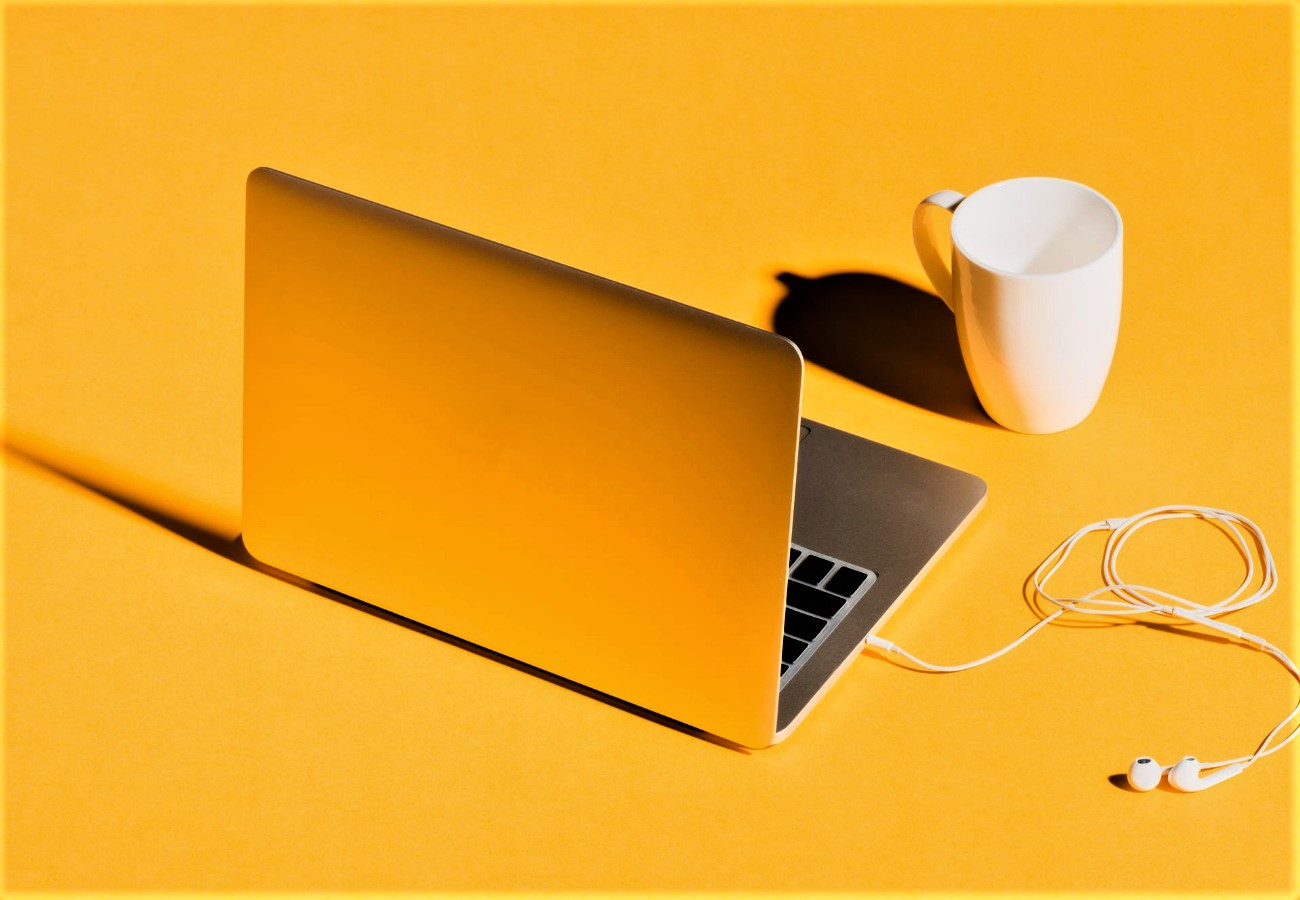
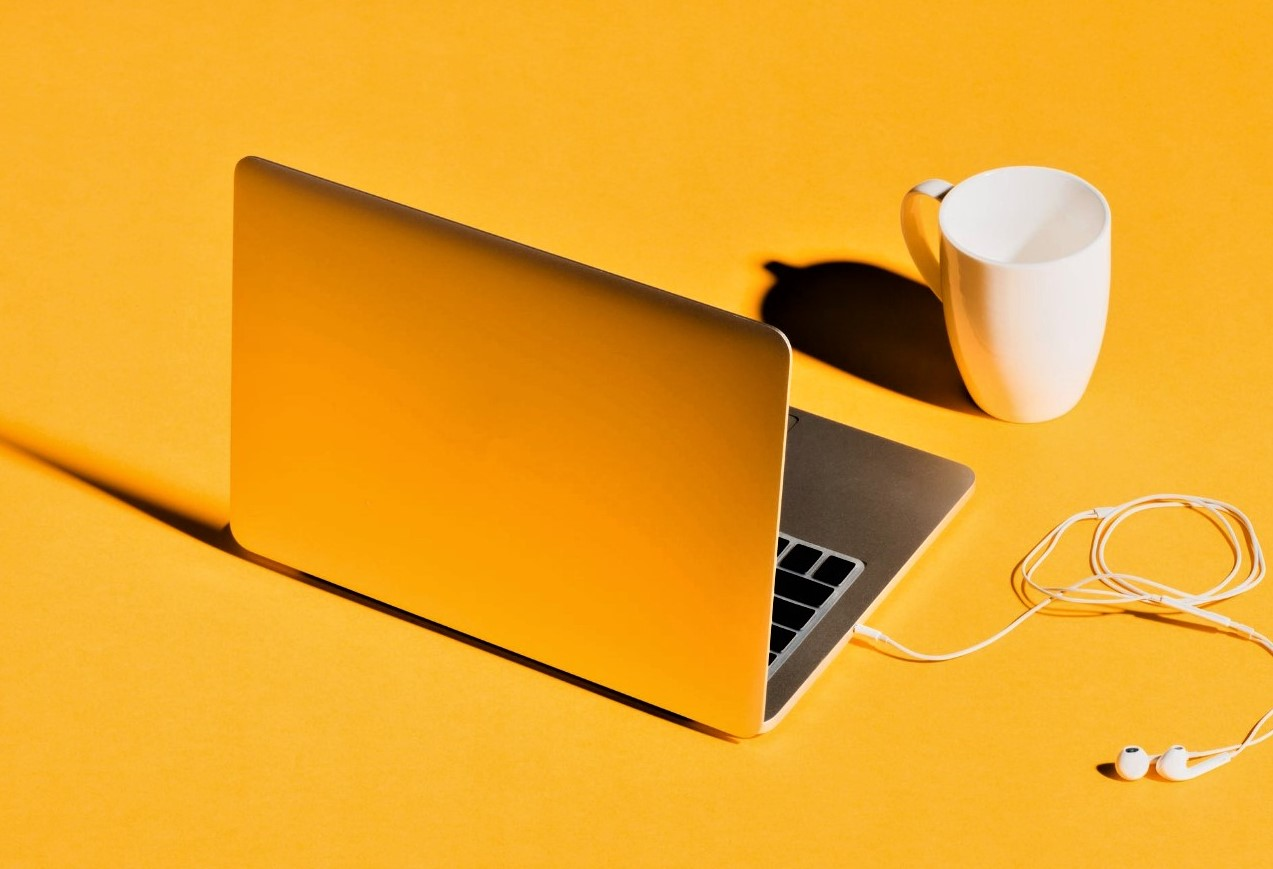
Styled Contact section

diff --git a/src/components/Contact/Contact.js b/src/components/Contact/Contact.js
@@ -1,12 +1,65 @@
 import React, { Component } from 'react';
 import classes from './Contact.module.css';
+import img from '../../assets/images/contact-img.jpeg';
 
 class Home extends Component {
   render() {
     return (
-      <div className={classes.Contact} id='contact'>
-        <h1>Contact</h1>
-      </div>
+      <section className={classes.Contact} id='contact'>
+        <div className={classes.ContactImg}>
+          <img src={img} alt='' />
+        </div>
+        <div className={classes.ContactHeader}>
+          <h1>contact.</h1>
+        </div>
+        <div className={classes.ContactText}>
+          <p>
+            Here is how you can reach me: <br /> izabkru88@gmail.com <br /> +44
+            7868197008
+          </p>
+        </div>
+        <div className={classes.ContactBox}>
+          <div className={classes.ContactQuestion}>
+            <p>Any questions?</p>
+          </div>
+          <form method='POST'>
+            <div className={classes.TextFields}>
+              <input
+                type='text'
+                className={(classes.TextInput, classes.NameInput)}
+                placeholder='Name'
+                name='name'
+              />
+              <input
+                type='text'
+                className={(classes.TextInput, classes.SubjectInput)}
+                placeholder='Subject'
+                name='subject'
+              />
+              <input
+                type='email'
+                className={(classes.TextInput, classes.EmailInput)}
+                placeholder='Email Address'
+                name='email'
+              />
+              <input
+                type='text'
+                className={(classes.TextInput, classes.PhoneInput)}
+                placeholder='Phone Number'
+                name='phone'
+              />
+              <textarea
+                className={(classes.TextInput, classes.MessageInput)}
+                placeholder='Enter Message'
+                name='message'
+              ></textarea>
+            </div>
+            <button className={classes.ContactBtn} type='submit'>
+              Submit
+            </button>
+          </form>
+        </div>
+      </section>
     );
   }
 }

diff --git a/src/components/Projects/Projects.js b/src/components/Projects/Projects.js
@@ -1,6 +1,9 @@
 import React, { useEffect, useState } from 'react';
 import classes from './Projects.module.css';
 import sanityClient from '../../client.js';
+import img2 from '../../assets/images/img2.jpg';
+import img3 from '../../assets/images/img3.jpg';
+import img5 from '../../assets/images/img5.jpg';
 
 function Project() {
   const [projectData, setProjectData] = useState(null);
@@ -74,6 +77,38 @@ function Project() {
                 </div>
               </div>
             ))}
+          <div className={classes.Item}>
+            <div className={classes.ItemImage}>
+              <img src={img2} alt='' />
+            </div>
+            <div className={classes.ItemText}>
+              <div className={classes.TextWrap}>
+                <h3 className={classes.TextTitle}>UI / UX</h3>
+              </div>
+            </div>
+          </div>
+
+          <div className={classes.Item}>
+            <div className={classes.ItemImage}>
+              <img src={img3} alt='' />
+            </div>
+            <div className={classes.ItemText}>
+              <div className={classes.TextWrap}>
+                <h3 className={classes.TextTitle}> WEB DESIGN</h3>
+              </div>
+            </div>
+          </div>
+
+          <div className={classes.Item}>
+            <div className={classes.ItemImage}>
+              <img src={img5} alt='' />
+            </div>
+            <div className={classes.ItemText}>
+              <div className={classes.TextWrap}>
+                <h3 className={classes.TextTitle}>CREATIVITY</h3>
+              </div>
+            </div>
+          </div>
         </section>
       </section>
     </main>

diff --git a/src/components/Contact/Contact.module.css b/src/components/Contact/Contact.module.css
@@ -1,3 +1,99 @@
 .Contact {
   height: 100vh;
+  position: relative;
+  margin: auto;
+  max-width: 1300px;
+  font-family: 'Montserrat', sans-serif;
+}
+
+.ContactImg {
+  height: 100%;
+  width: 100%;
+}
+
+.ContactHeader {
+  position: absolute;
+  letter-spacing: 1px;
+  left: -19%;
+  bottom: 31%;
+}
+
+.ContactHeader h1 {
+  transform: rotate(-90deg);
+  font-family: 'Montserrat', sans-serif;
+  font-size: 160px;
+  color: rgb(253, 187, 45, 0.1);
+}
+
+.ContactText {
+  position: absolute;
+  bottom: 41%;
+  color: #fff;
+  left: 13%;
+  letter-spacing: 1px;
+  width: 440px;
+  height: 300px;
+  line-height: 90px;
+  font-size: 26px;
+}
+
+.ContactBox {
+  left: 50%;
+  bottom: 35%;
+  position: absolute;
+}
+
+.ContactQuestion {
+  font-family: 'Indie Flower', cursive;
+  color: #fff;
+  font-size: 40px;
+  display: flex;
+  justify-content: center;
+  letter-spacing: 5px;
+  margin: 20px 0;
+}
+
+.TextFields {
+  display: grid;
+  grid-template-areas:
+    'name email'
+    'subject phone'
+    'message message';
+  grid-gap: 40px;
+  width: 560px;
+  height: 300px;
+}
+
+.NameInput {
+  grid-area: name;
+}
+.SubjectInput {
+  grid-area: subject;
+}
+
+.PhoneInput {
+  grid-area: phone;
+}
+.MessageInput {
+  grid-area: message;
+  height: 100px;
+}
+
+.TextInput {
+  padding: 0.5rem 1rem;
+}
+
+.ContactBtn {
+  width: 100%;
+  height: 45px;
+  background-color: #ffbe2d;
+  cursor: pointer;
+  font-family: 'Montserrat', sans-serif;
+  letter-spacing: 2px;
+  text-transform: uppercase;
+  font-weight: bold;
+}
+
+.ContactBtn:hover {
+  background-color: #ff4046;
 }

diff --git a/src/components/Projects/Projects.module.css b/src/components/Projects/Projects.module.css
@@ -9,6 +9,7 @@
   margin: auto;
   max-width: 1300px;
   position: relative;
+  padding: 0 40px;
 }
 
 .MainHeader {
@@ -20,7 +21,7 @@
 .MainHeader h1 {
   font-size: 187px;
   letter-spacing: 1px;
-  margin: auto;
+  margin: 2% auto;
   color: rgb(255 64 70 / 35%);
 }
 
@@ -88,11 +89,11 @@
   width: auto;
   height: 100%;
   line-height: 0;
+  filter: brightness(95%);
 }
 
 .ItemText {
   position: absolute;
-
   top: 0;
   left: 0;
   bottom: 0;
@@ -126,6 +127,7 @@
 
 .TextTitle {
   font-size: 2rem;
+  letter-spacing: 2px;
   padding: 0 1rem;
   margin: 5px 0 0 0;
   font-family: 'Indie Flower', cursive;

diff --git a/src/components/Home/Home.module.css b/src/components/Home/Home.module.css
@@ -1,8 +1,7 @@
 .Home {
   height: 100vh;
   width: 100%;
-  display: flex;
-  background-color: #ffbe2d;
+  background-color: #fdb728;
   position: relative;
   margin: auto;
   font-family: 'Montserrat', sans-serif;
@@ -15,8 +14,12 @@
 .MainImage {
   height: 100%;
   width: 100%;
+  margin: auto;
+  max-width: 1300px;
+}
+
+.MainImage img {
   opacity: 0.6;
-  margin: 0;
 }
 
 .MainText {

diff --git a/src/components/Home/Home.js b/src/components/Home/Home.js
@@ -7,7 +7,9 @@ class Home extends Component {
   render() {
     return (
       <main className={classes.Home} id='home'>
-        <img className={classes.MainImage} src={img} alt='' />
+        <div className={classes.MainImage}>
+          <img src={img} alt='' />
+        </div>
         <section className={classes.MainText}>
           <div className={classes.BoxOne}>
             <h1>
